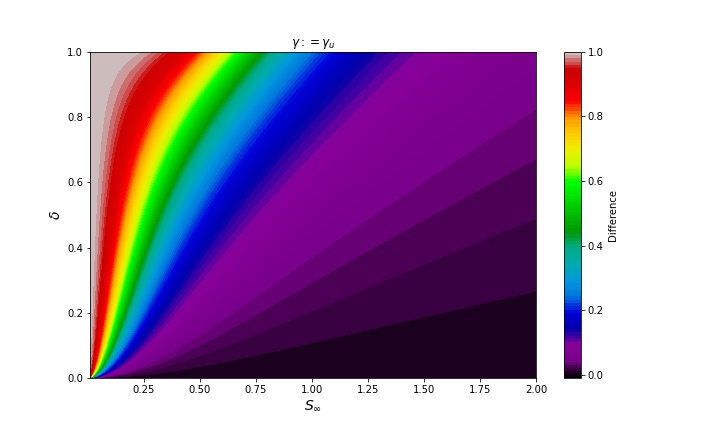
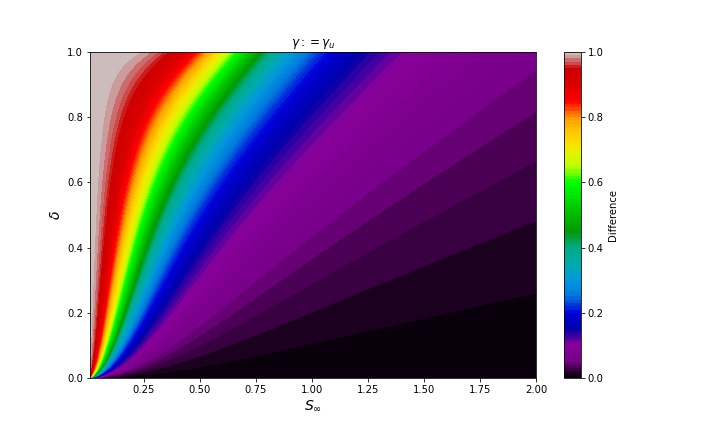
Summary

diff --git a/stability_analysis_full_run_small_angle.py b/stability_analysis_full_run_small_angle.py
@@ -18,7 +18,7 @@ max_grs = []
 max_ms = []
 max_frs = []
 gms = []
-dS = 0.05 #0.5
+dS = 0.005 #0.5
 theta = 0.1
 S_list = np.arange(dS,2,dS)
 f = 1e-4
@@ -26,10 +26,10 @@ f = 1e-4
 tau = 2*np.pi
 dt = 500
 t = np.linspace(0, tau, dt)
-dm = 0.25
+dm = 0.01
 m = np.arange(-50, 5+dm, dm)
-dgm = 100
-ddelta = 6
+dgm = 200
+ddelta = 3
 delta_list = np.linspace(0,1,ddelta)
 for S in S_list:
     gms_2 = []
@@ -85,4 +85,4 @@ output_file = xr.Dataset({"growth_rate":(["slope_burger_number","delta","strat_i
            "strat_values":(["slope_burger_number","delta","strat_index"],gms)},
            coords = {"slope_burger_number":S_list,"delta":delta_list,"strat_index":np.linspace(0,1,dgm)})
 
-output_file.to_netcdf("stability_analysis_output_delta_gamma_sinf.nc")
+output_file.to_netcdf("stability_analysis_gamma_Sinf_high_res.nc")
